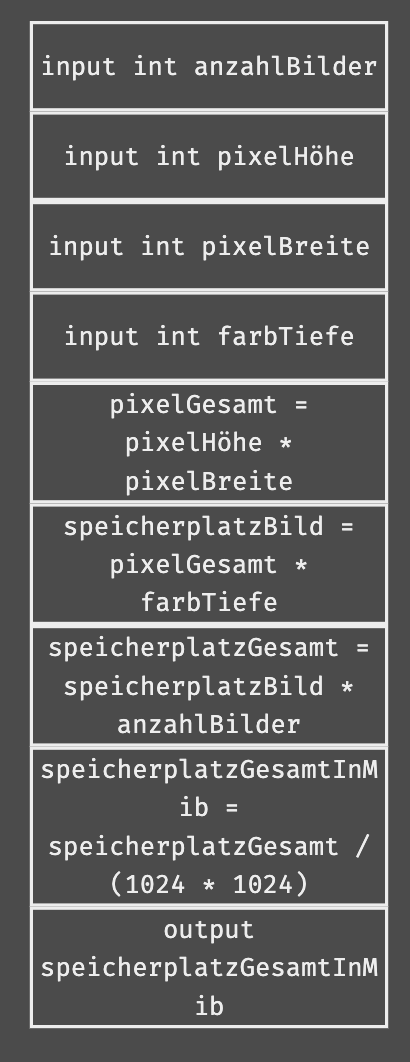
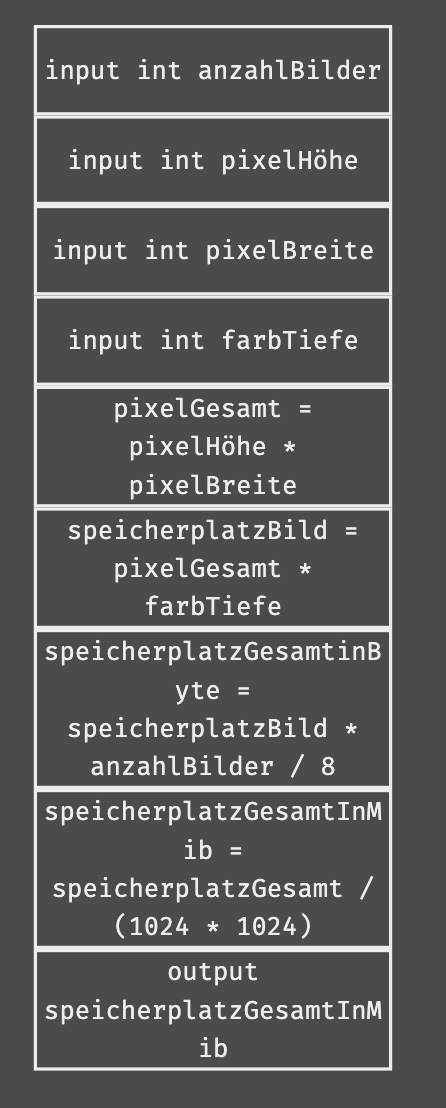
Anpassungen

Changed region(s): [[0.0585, 0.0, 0.9659, 0.9944]]

diff --git a/lawen_eric/Seite524Nummer4.py b/lawen_eric/Seite524Nummer4.py
@@ -7,8 +7,8 @@ pixelGesamt = pixelHöhe * pixelBreite
 
 speicherPlatzBild = pixelGesamt * farbTiefe
 
-speicherPlatzGesamt = speicherPlatzBild * anzahlBilder / 8
+speicherPlatzGesamtinByte = speicherPlatzBild * anzahlBilder / 8
 
-speicherPlatzGesamtInMib = speicherPlatzGesamt / (1024 * 1024)
+speicherPlatzGesamtInMib = speicherPlatzGesamtinByte / (1024 * 1024)
 
 print (speicherPlatzGesamtInMib, "Mib")
